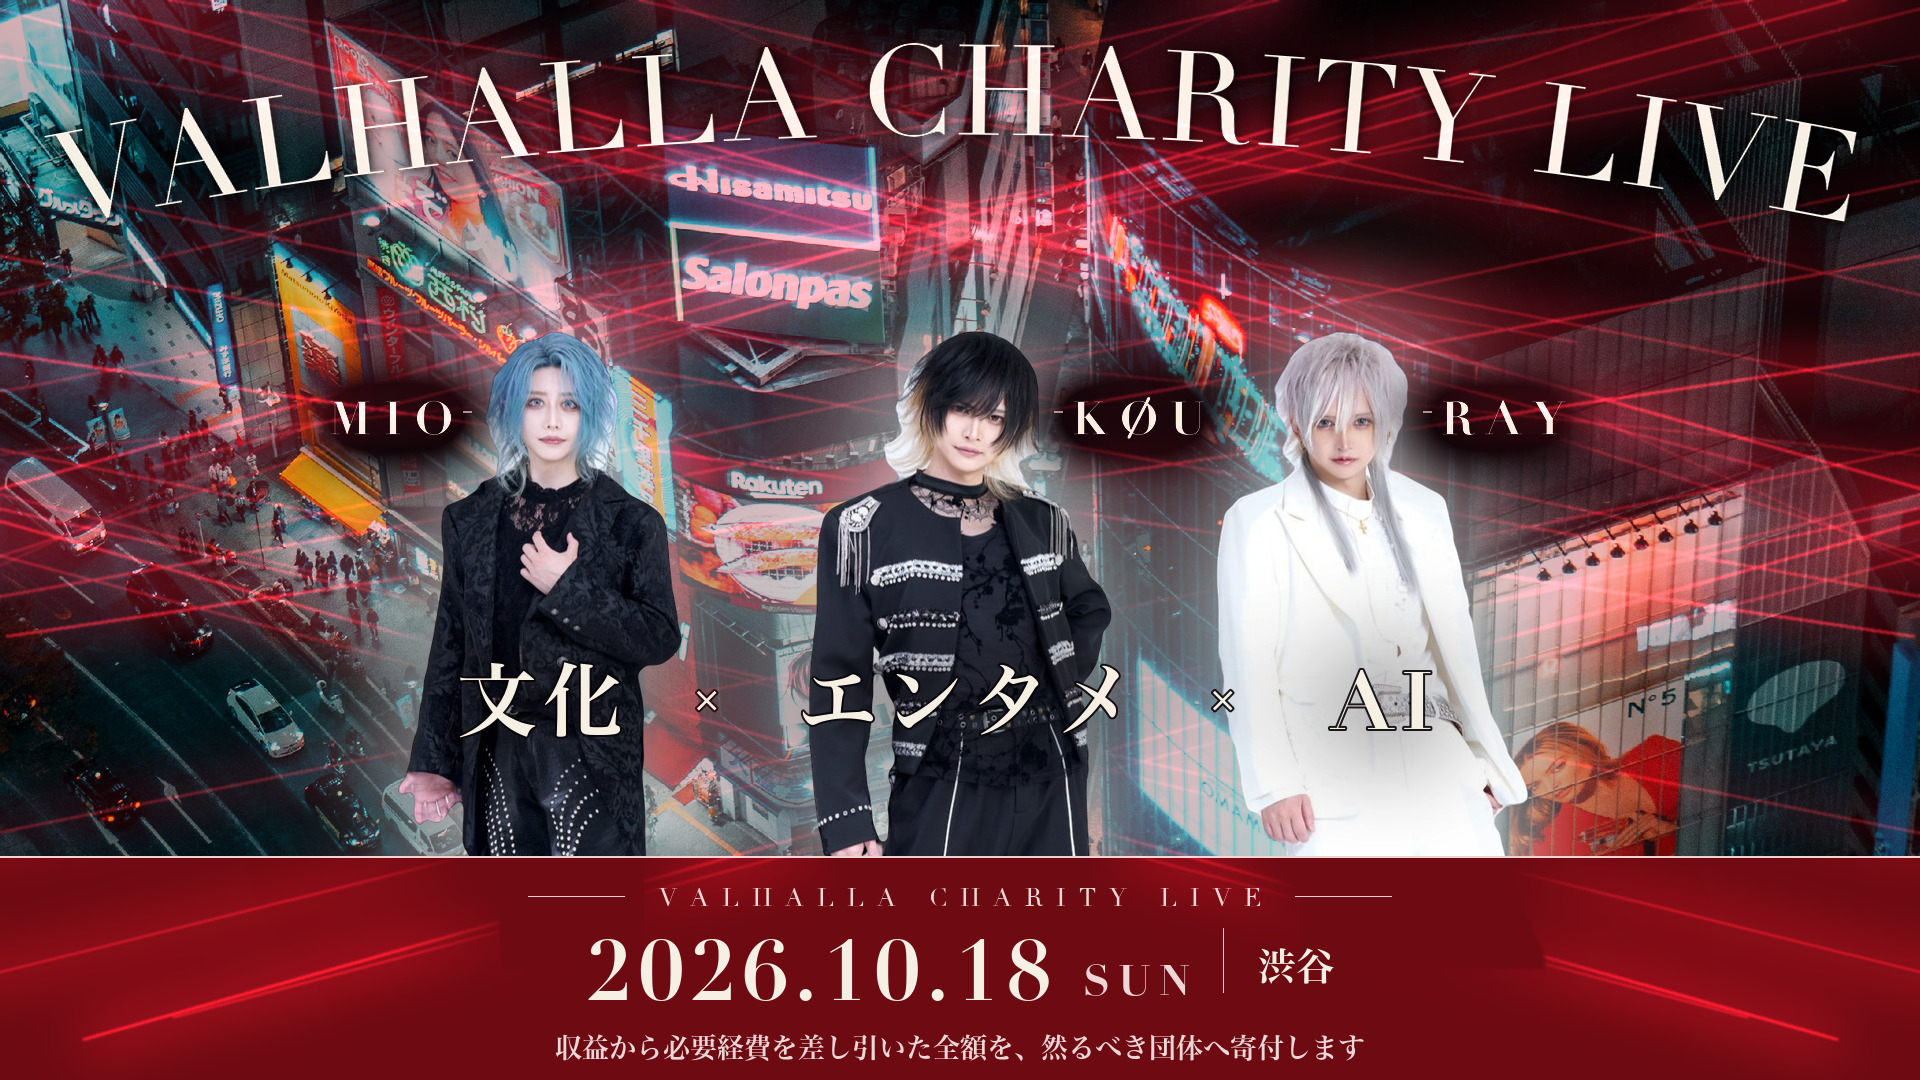
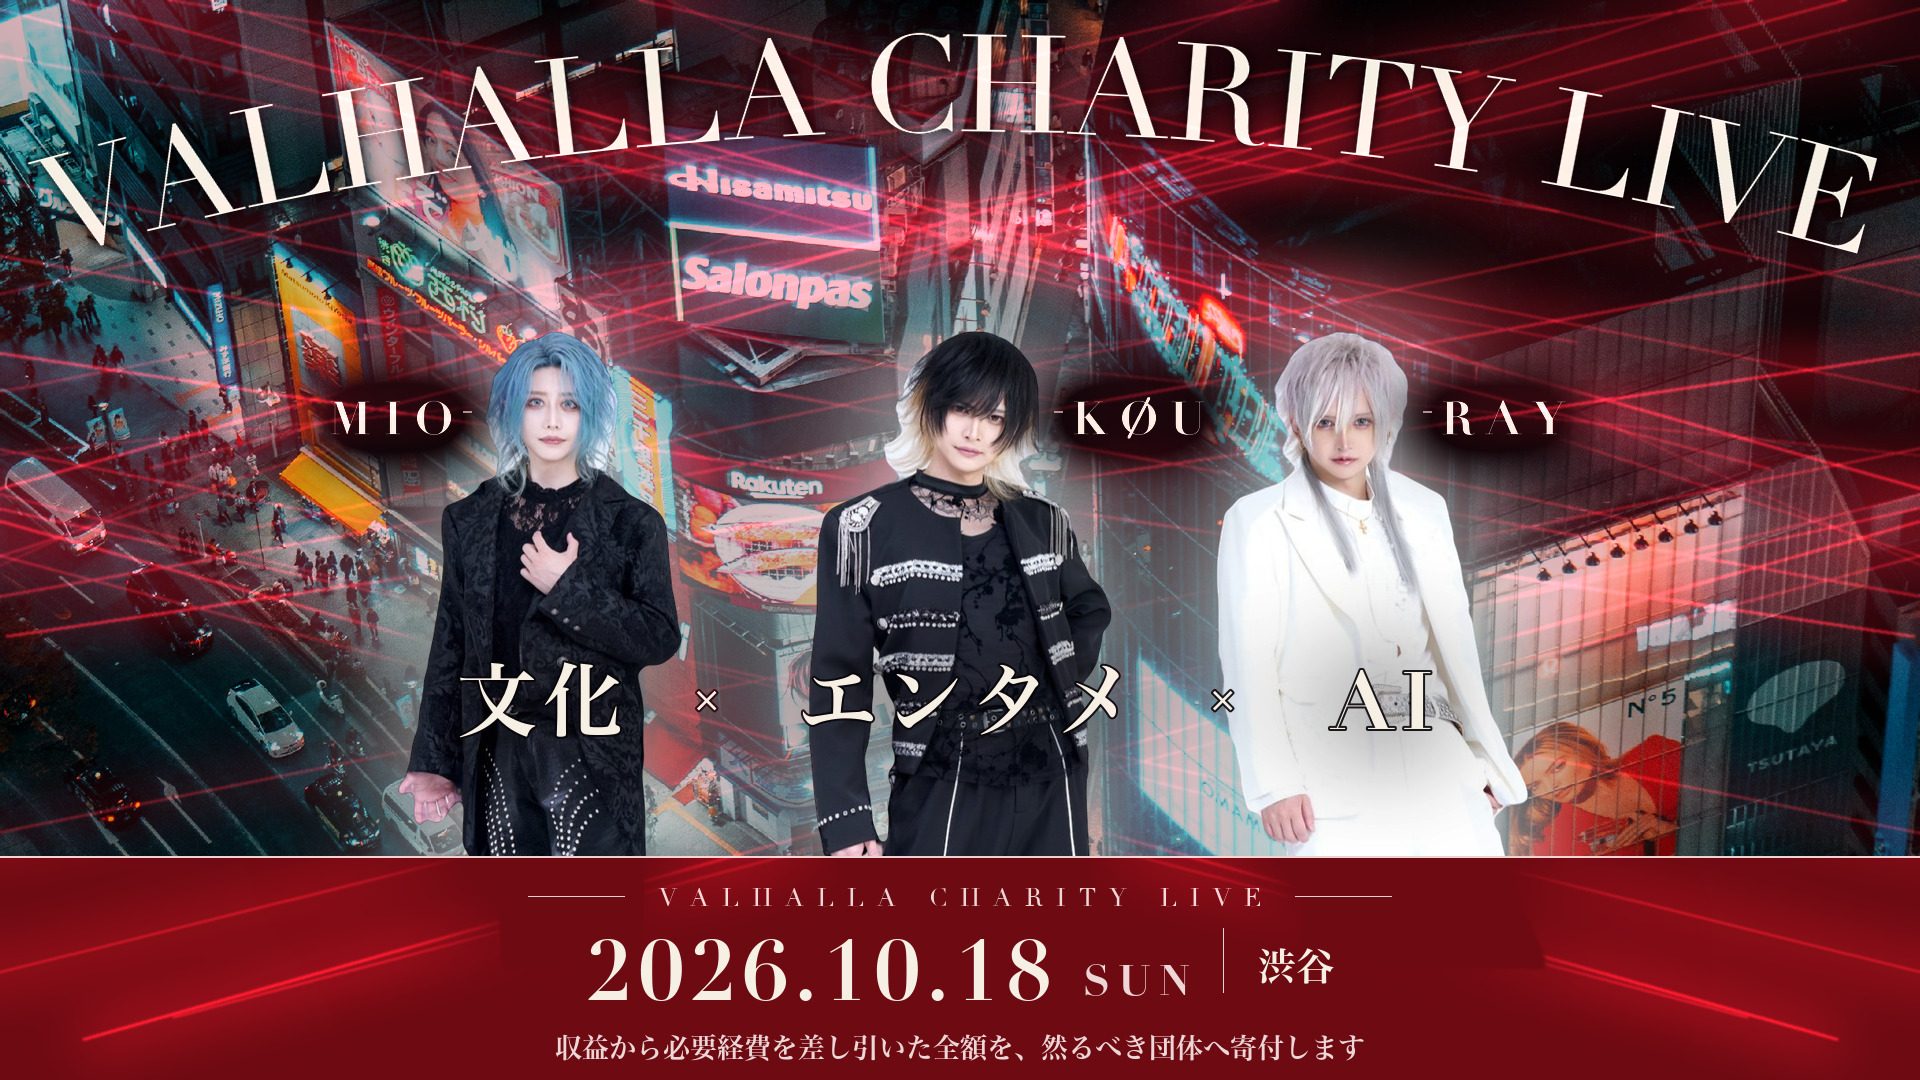
charity: push the title as large as one line allows
Levelling the three heads freed room above them, so the title takes it:
126pt to 136pt. Height was never the limit though — twenty-one letters
across 1920px is, and letter-spacing is already at zero to fit. Tightening
the radius to 3400 buys the rest: a deeper arc spends more of the same
arc length going up rather than sideways, and the ends drop where nobody
is standing.

Changed region(s): [[0.3438, 0.0306, 0.9688, 0.2444], [0.0, 0.0306, 0.3438, 0.2444]]

diff --git a/assets/charity/create_flyer_wide.py b/assets/charity/create_flyer_wide.py
@@ -495,15 +495,18 @@ def arc_text(base: Image.Image, text: str, font: ImageFont.FreeTypeFont,
 
 
 def add_type(base: Image.Image) -> None:
-    """上のイベント名。ここだけ弧に戻す（腰の3語はまっすぐのまま）。
+    """上のイベント名。ここだけ弧（腰の3語はまっすぐのまま）。
 
-    半径 4600 の浅い弧。126pt・字間5 で弧長およそ 1816px、
-    見た目の幅 1804px、左右の余白は 58px ずつ。
-    頂点 94 → インク上端 40。端は 90px 下がるが、
-    いちばん高い頭（y≈298）までは十分に空いている。
+    3人を同じ大きさにして頭が下がったぶん、上に余裕ができたので字を上げた。
+    126pt → 136pt。ただし効いている制約は高さではなく幅で、
+    21文字を 1920px に収めるには字間を 0 まで詰めるところが限界。
+
+    半径も 4600 → 3400 に詰めている。弧を深くすると、同じ弧長でも
+    横の張り出しが減るので、そのぶん字を大きくできる。端が 126px 下がるが、
+    下がる場所は人物より外側なので誰にも当たらない。
     """
-    arc_text(base, "VALHALLA CHARITY LIVE", face(DIDOT, 126), CREAM + (255,),
-             W // 2, 94 + 4600, 4600, tracking=5)
+    arc_text(base, "VALHALLA CHARITY LIVE", face(DIDOT, 136), CREAM + (255,),
+             W // 2, 87 + 3400, 3400, tracking=0)
 
 
 def add_band(base: Image.Image) -> None:
